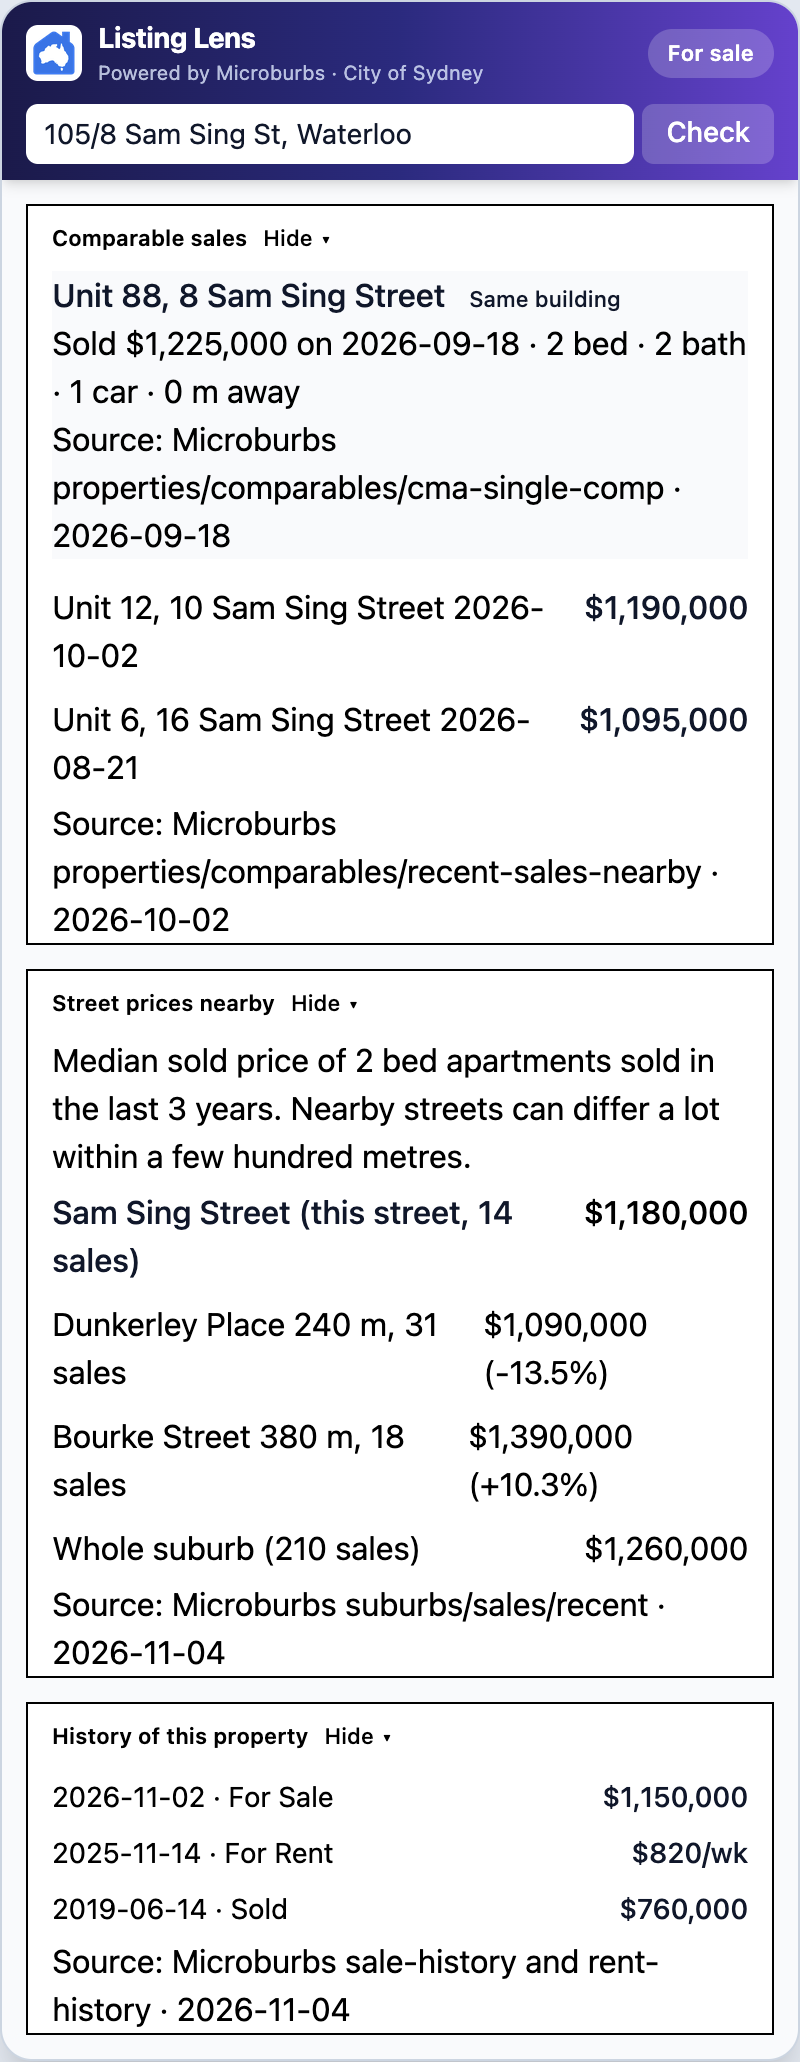
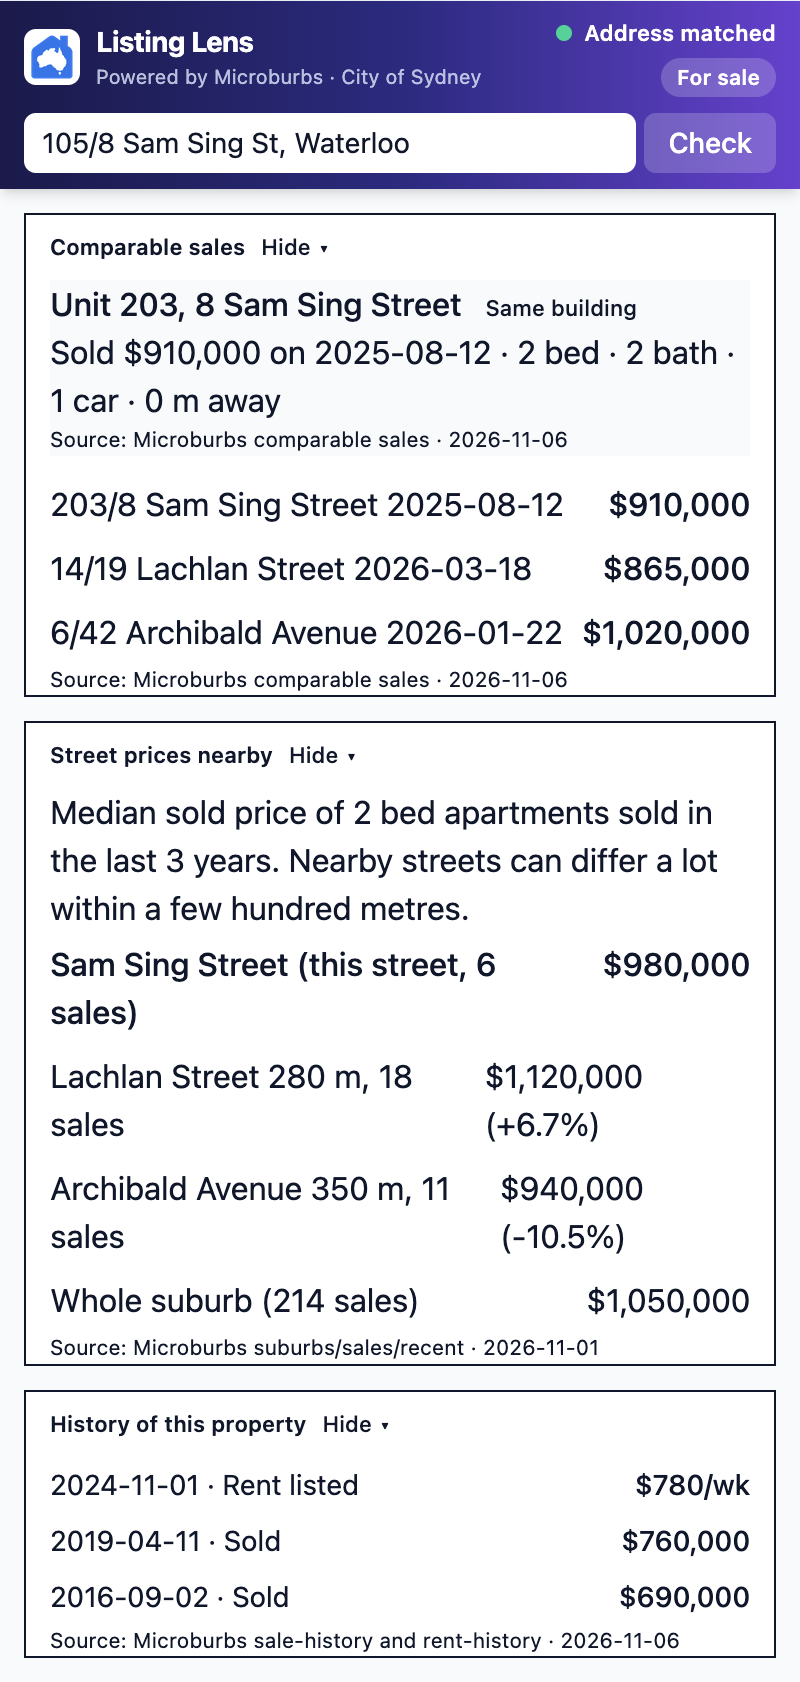
Refresh the README screenshots for the current panel.
The old images predated the overview and the match score, so they no longer showed the first screen.

Changed region(s): [[0.0, 0.0, 1.0, 1.0], [0.5312, 0.6801, 0.5625, 0.7111]]

diff --git a/README.md b/README.md
@@ -8,9 +8,9 @@ Built for the Microburbs hackathon, 7 November 2026 (Task 3, Chrome extension; T
 
 These are the real side-panel components, filled with a sample listing at Unit 105, 8 Sam Sing Street, Waterloo, so the layout is visible here. On a live listing the numbers come from the Microburbs API, and each one keeps its source and date.
 
-The address is matched to one G-NAF unit. The price check compares the asking price with the Microburbs valuation, then adds a street check and a rent yield.
+The address is matched to one G-NAF unit. The overview shows the Microburbs estimate and its confidence, your match, then the street, yield, and local context.
 
-![Price check for a matched unit](assets/price-check.png)
+![Overview for a matched unit](assets/price-check.png)
 
 Cheaper like-for-like listings nearby, with the saving, size and price per square metre.
 
